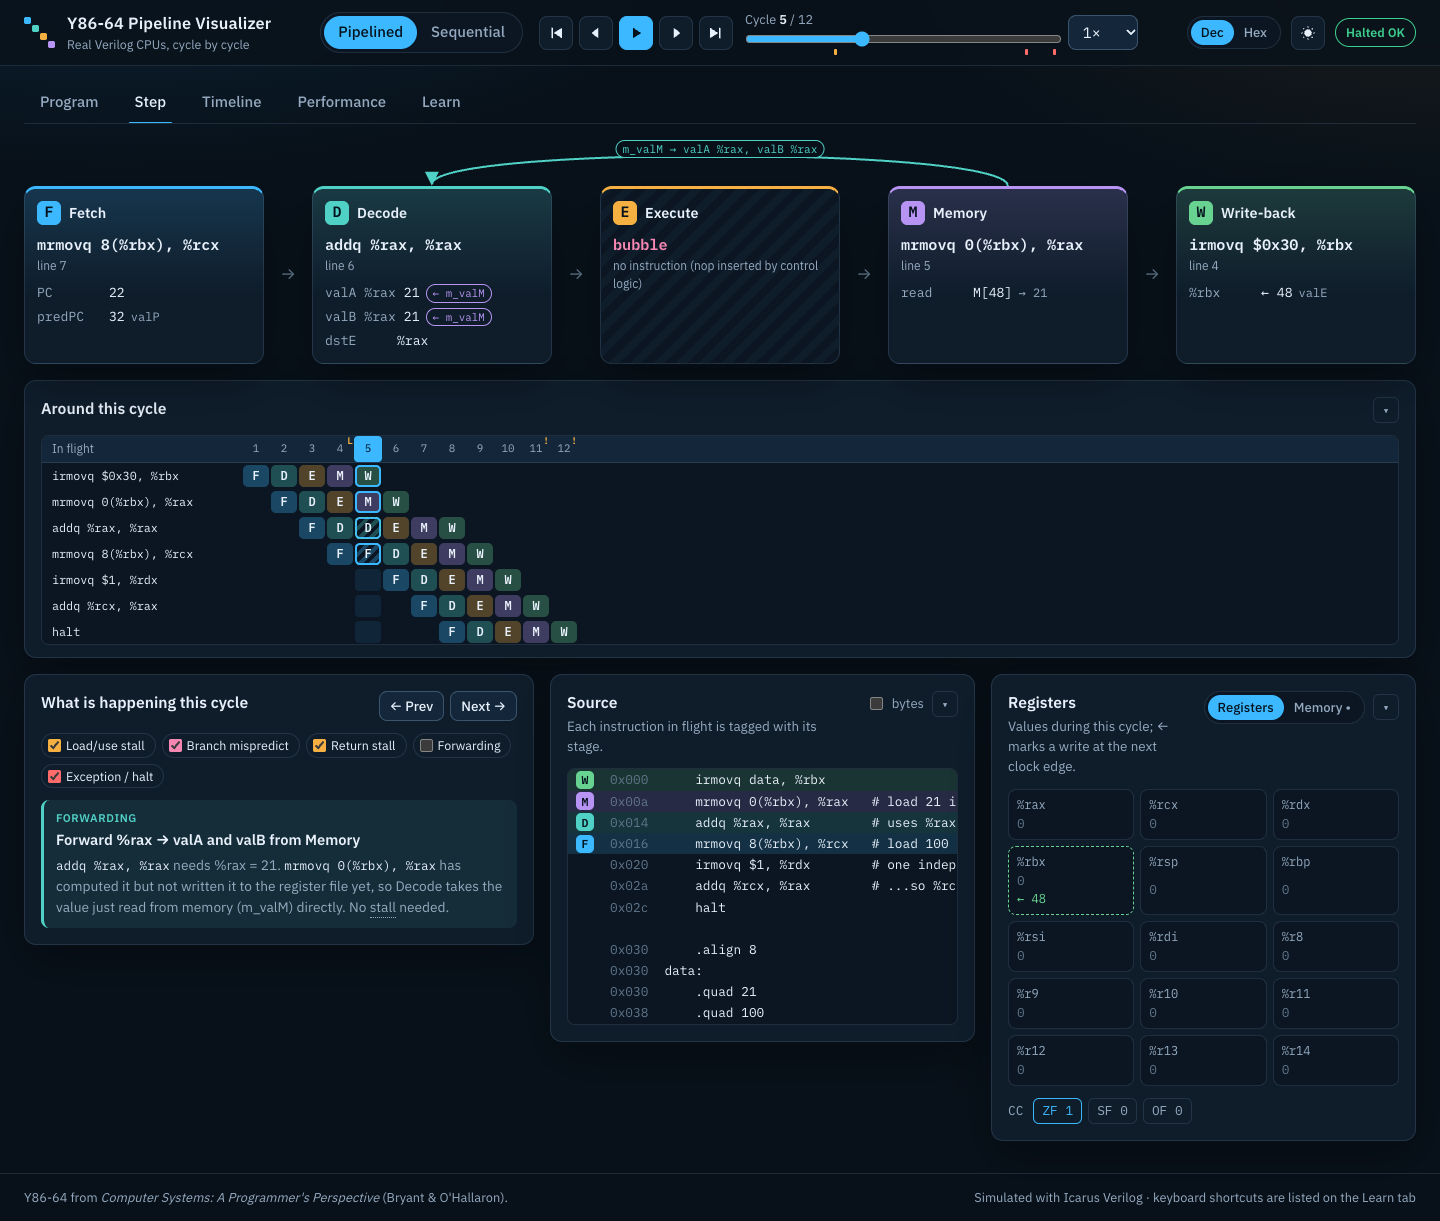
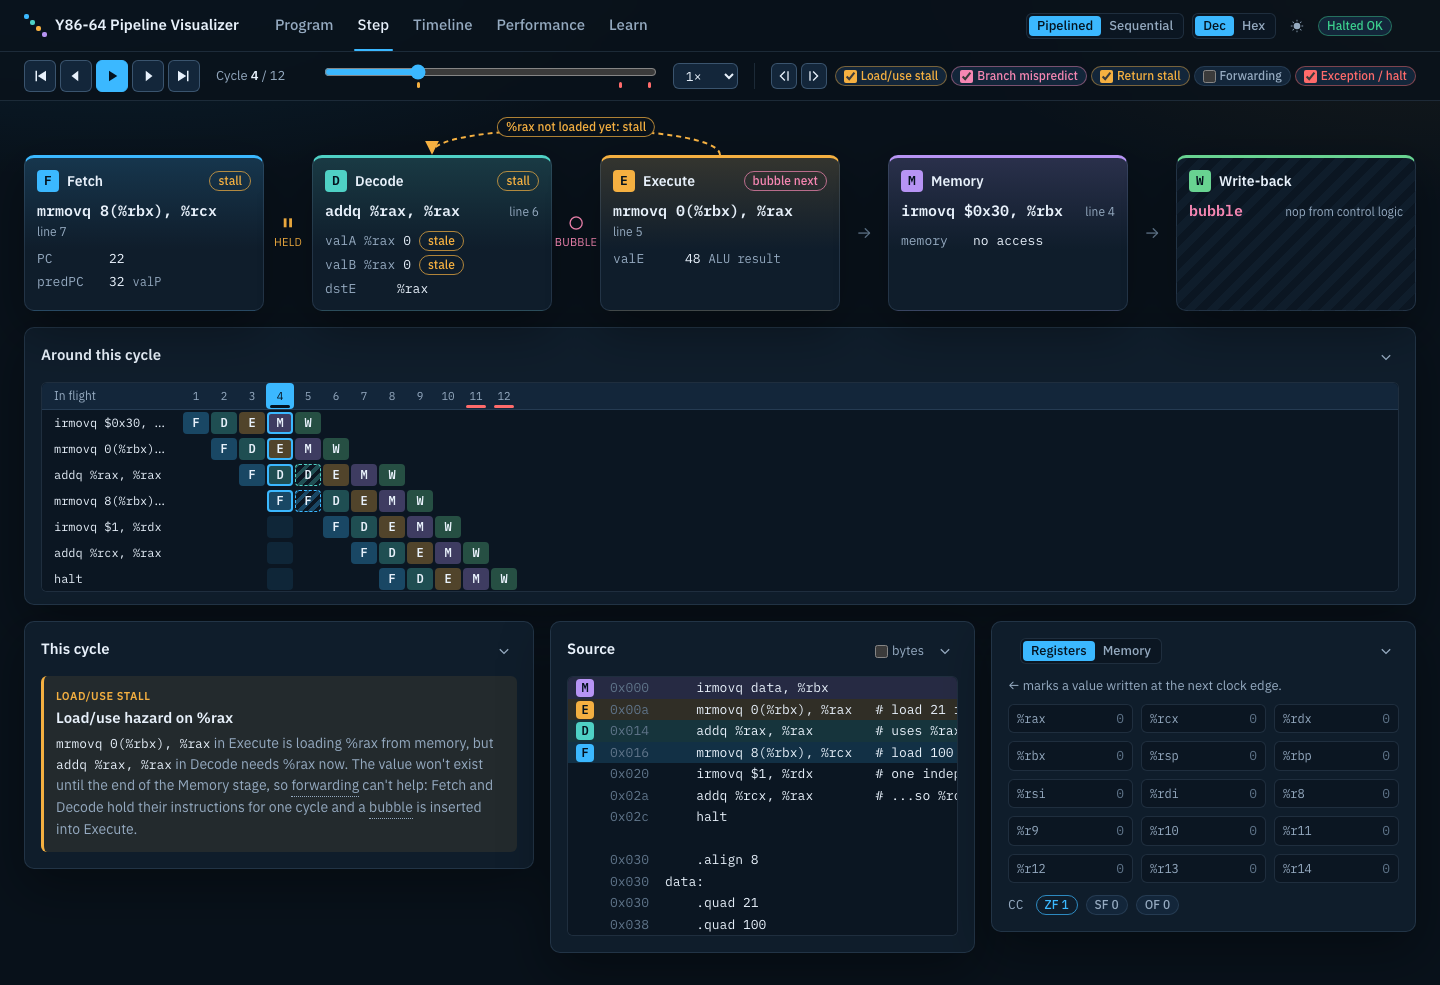
docs: README describes the transport bar, Timeline follow, Performance comparison and Learn order; refresh screenshots

diff --git a/README.md b/README.md
@@ -13,16 +13,17 @@ Write Y86-64 assembly in the browser, run it on **two real Verilog CPUs** (a 5-s
 - **Hazards explained.** For every cycle the visualizer says what is happening and why. The text is generated from the CPU's own control signals (`load_use`, `mispredict`, `ret_hazard`, forwarding selectors). Example:
   > *`mrmovq 0(%rbx), %rax` in Execute is loading %rax, but `addq %rax, %rax` in Decode needs it now… Fetch and Decode hold their instructions for one cycle and a bubble is inserted into Execute.*
 
-  Dotted terms (stall, bubble, forwarding…) show their definition on hover or focus. Colored ticks under the cycle slider mark every stall, misprediction, ret stall and exception, and **Prev/Next** (or `[` / `]`) jumps between them.
+  Dotted terms (stall, bubble, forwarding…) show their definition on hover or focus.
+- **Cycle transport.** On the Step and Timeline tabs a bar under the header holds playback, the cycle slider and speed. Colored ticks on the slider mark every stall, misprediction, ret stall and exception; the event chips beside it choose which kinds are marked, and the event buttons (or `[` / `]`) jump between them.
 - **One Step workspace.**
   - The five stage cards show what each stage holds and computes.
   - Connectors between the cards show whether each instruction advances, is held, or is replaced by a bubble at the next clock edge.
   - Arcs draw each value forwarded into Decode (`e_valE`, `m_valM`, …), or the blocked load/use path.
-  - Below the cards: a mini-timeline of the surrounding cycles, the explanation, the stage-tagged source, and a Registers / Data memory inspector.
+  - Below the cards: a mini-timeline of the surrounding cycles, the explanation (with a run summary at the last cycle), the stage-tagged source, and a Registers / Data memory inspector. Every panel can be collapsed.
   - Hovering an instruction highlights it in every view.
-- **Pipeline timeline.** The classic staircase diagram across the whole run. Stalls show as held cells and squashed wrong-path instructions are struck through. Click any cell to jump to that cycle.
-- **Performance.** Compare pipelined vs sequential cycle counts, see a CPI breakdown (`1 + load/use + mispredict + ret + fill`) and forwarding statistics, and edit the stage delays in a timing model to see why the pipeline wins despite needing more cycles.
-- **Learn tab.** What each instruction does in each stage (after CS:APP Figs. 4.18–4.21), a glossary, and keyboard shortcuts.
+- **Pipeline timeline.** The classic staircase diagram across the whole run, in windows of 16, 32 or 64 cycles or all of them, always scrolled to the instructions in flight. Stalls show as held cells and squashed wrong-path instructions are struck through. Click any cell to jump to that cycle.
+- **Performance.** One pipelined vs sequential comparison (cycles, CPI, clock period, run time and the resulting speedup) with editable stage delays beside it, a breakdown of where the pipelined cycles go and what each cause adds to the CPI (`1 + load/use + mispredict + ret + fill`), and forwarding statistics.
+- **Learn tab.** A getting-started guide, keyboard shortcuts, what each instruction does in each stage (after CS:APP Figs. 4.18–4.21), and a glossary.
 - **Interface.** Light and dark themes (following the OS by default), keyboard navigation, screen-reader labels, reduced-motion support, and a mobile layout.
 
 | Program editor | Timeline (light theme) |
